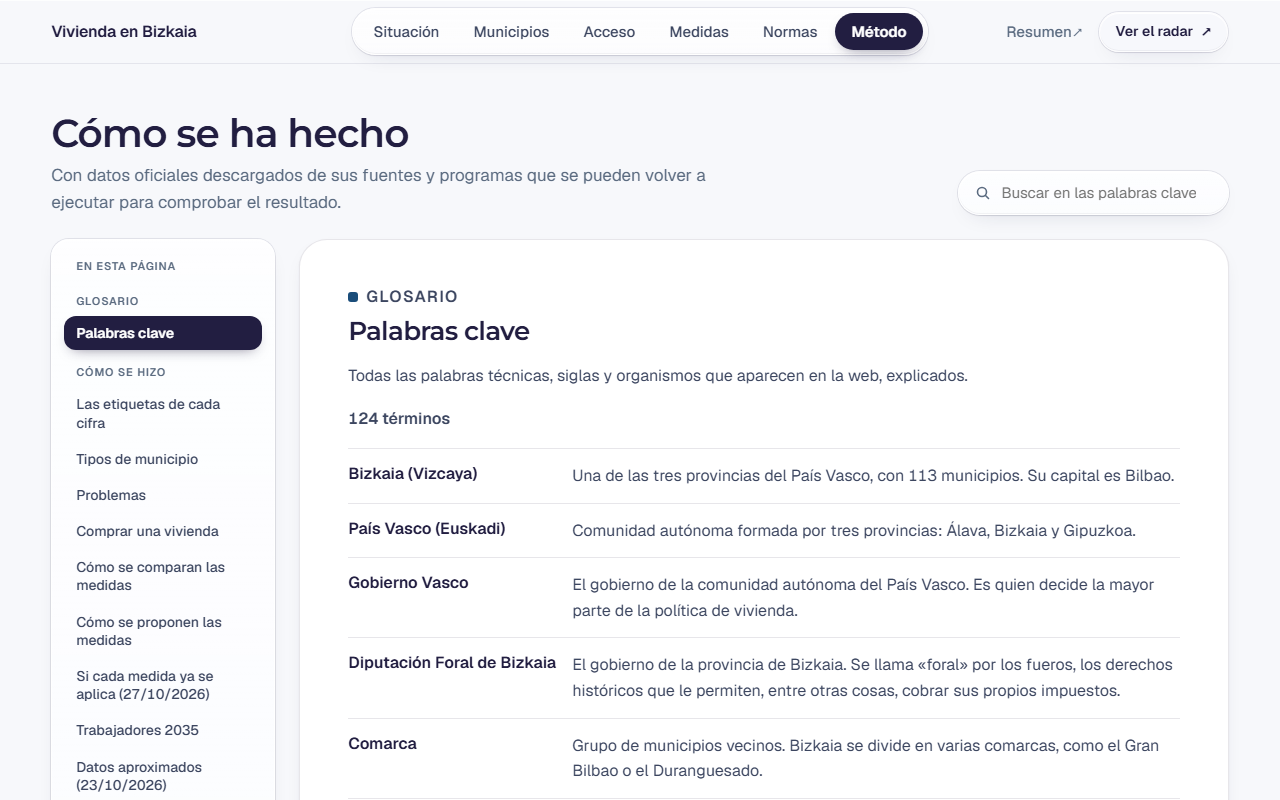
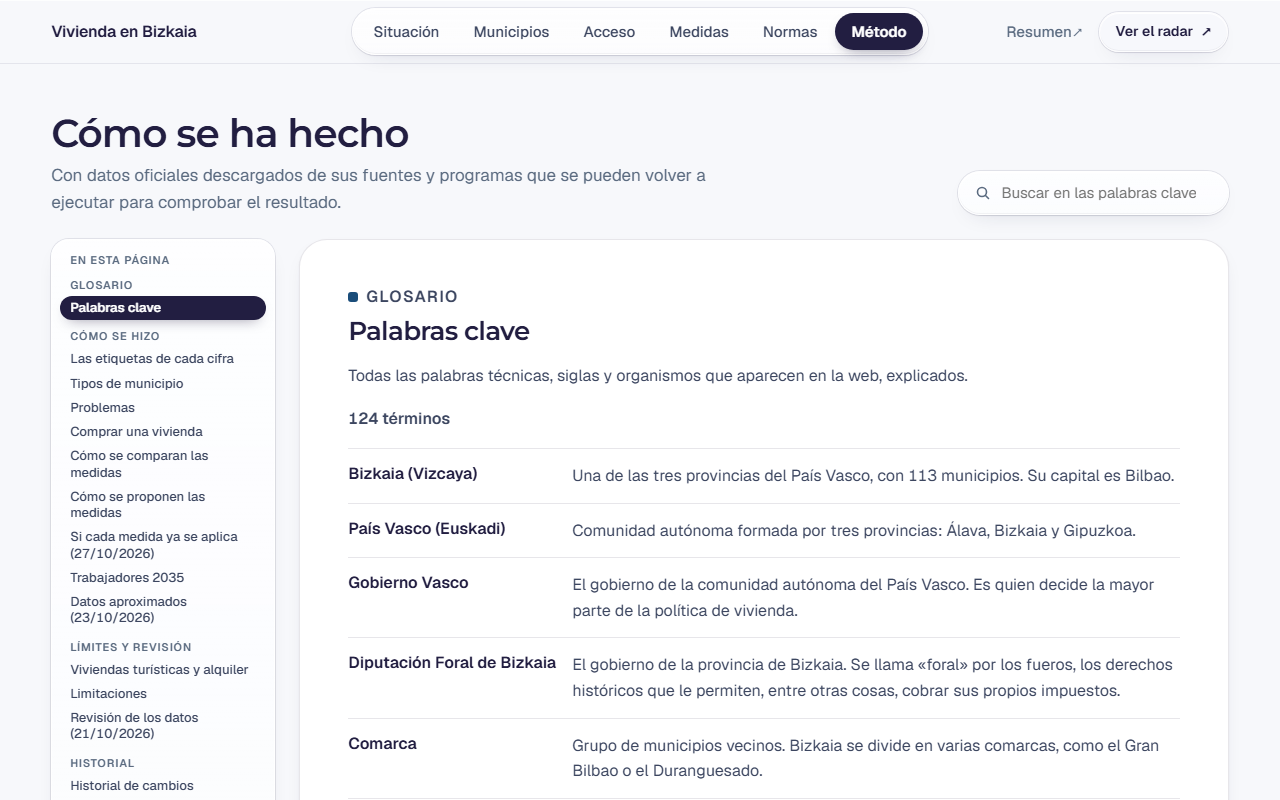
Ajustes tras la revision local: barras de desplazamiento, pie y fuentes de Situacion
- Barras de desplazamiento del sistema (finas, redondeadas, sin flechas) en todos los contenedores con scroll propio.
- Se elimina el texto del pie ("Prototipo integrado, no publicado...") y el pie.
- "Fuentes: ..." de Situacion pasa del panel al pie de la pagina, encima de la fecha de los datos (mismo elemento del original).
- Indice lateral de Metodo compactado para que quepa sin barra propia.
- Pruebas 1440x900: navegacion 41, vistas 48, situacion 101, equivalencia 30, flujos 74, composicion 33, contraste 31+93, desbordes 12, tipografia 13.

Changed region(s): [[0.0312, 0.3125, 0.2188, 1.0]]

diff --git a/sprint-03-1/app/css/marco.css b/sprint-03-1/app/css/marco.css
@@ -2,6 +2,20 @@
 *, *::before, *::after { box-sizing: border-box; }
 [hidden] { display: none !important; }
 html { scroll-padding-top: calc(var(--banda) + var(--s4)); scrollbar-color: var(--line-2) transparent; }
+
+/* ---------- Barras de desplazamiento del sistema ----------
+   Finas, redondeadas y sin flechas, en todos los contenedores con desplazamiento propio (ranking, listas, matrices, índices, fichas).
+   Chrome, Edge y Safari: se dibujan con ::-webkit-scrollbar, y para eso hay que anular scrollbar-width y scrollbar-color (si no, Windows
+   pinta su barra clásica con flechas, pegada al borde y encima de las cifras). Firefox mantiene la barra fina estándar de más arriba. */
+@supports selector(::-webkit-scrollbar) {
+  * { scrollbar-width: auto !important; scrollbar-color: auto !important; }
+  ::-webkit-scrollbar { width: 14px; height: 14px; }
+  ::-webkit-scrollbar-track, ::-webkit-scrollbar-corner { background: transparent; }
+  ::-webkit-scrollbar-button { display: none; width: 0; height: 0; }
+  ::-webkit-scrollbar-thumb { min-height: 36px; min-width: 36px; border: 4px solid transparent; border-radius: 999px; background-color: rgba(34, 30, 65, .28); background-clip: content-box; }
+  ::-webkit-scrollbar-thumb:hover { background-color: rgba(34, 30, 65, .5); }
+  ::-webkit-scrollbar-thumb:active { background-color: var(--ink); }
+}
 body { margin: 0; background: var(--bg); color: var(--ink); font: 400 1rem/1.55 var(--f-ui); -webkit-font-smoothing: antialiased; text-rendering: optimizeLegibility; }
 ::selection { background: var(--ice); color: var(--ink); }
 h1, h2, h3, p, ol, ul { margin: 0; padding: 0; }

diff --git a/sprint-03-1/app/js/situacion/index.js b/sprint-03-1/app/js/situacion/index.js
@@ -128,7 +128,6 @@ export async function montar(raiz, { store }) {
         el("h2", { class: "ficha-problema", text: p.titulo }),
         el("p", { class: "ficha-cifra", text: p.cifra }),
         el("p", { class: "ficha-unidad", text: p.unidad }),
-        sourceLine(p.fuentes, store.fuentes),
         prop(el("p", { class: "ficha-pista", text: "Toca un municipio en el mapa o elígelo en la lista." })),
       ];
       f.dataset.modo = "bizkaia";
@@ -168,6 +167,8 @@ export async function montar(raiz, { store }) {
       f.dataset.modo = "municipio";
     }
     f.replaceChildren(...nodes.filter(Boolean));
+    // «Fuentes: …» del problema: el mismo elemento de siempre (sourceLine del original), ahora al pie de la página y siempre visible
+    $("#fuentes-pie").replaceChildren(...[sourceLine(store.resumen.problemas.find((r) => r.id === x.problema).fuentes, store.fuentes)].filter(Boolean));
     // cerrar devuelve el foco al municipio en el mapa, para seguir con las flechas
     f.querySelector(".ficha-cerrar")?.addEventListener("click", () => { const c = S.code; set({ code: null }, { anuncio: true }); mapa.focusCode(c); });
     f.querySelectorAll(".perfil-b").forEach((b) => b.addEventListener("click", () => set({ i: Number(b.dataset.i) }, { anuncio: true })));

diff --git a/sprint-03-1/_qa/qa-vistas.js b/sprint-03-1/_qa/qa-vistas.js
@@ -43,7 +43,7 @@ export async function run() {
   const feats = (await store.sections()).features.filter((f) => f.properties.muni === "48020").length;
   ok("Municipios · el mapa de barrios de Bilbao dibuja todas sus secciones censales", $$(".barrios-mapa svg path", lec).length === feats && feats > 100, `${feats}`);
   $$(".lec-indice .lec-ir", lec).find((b) => b.textContent === "Plan").click(); await sleep(1200);
-  ok("Municipios · «Plan» del índice lleva al bloque y queda marcado como actual", $(".lec-indice .lec-ir[aria-current=true]")?.textContent === "Plan" && Math.abs($("#plan", lec).getBoundingClientRect().top) < 260, `${Math.round($("#plan", lec).getBoundingClientRect().top)} px`);
+  ok("Municipios · «Plan» del índice lleva al bloque y queda marcado como actual", $(".lec-indice .lec-ir[aria-current=true]")?.textContent === "Plan" && $("#plan", lec).getBoundingClientRect().top > -50 && $("#plan", lec).getBoundingClientRect().top < innerHeight - 200, `${Math.round($("#plan", lec).getBoundingClientRect().top)} px`);
   window.scrollTo(0, 0);
   // comparar
   await ir("#municipios/48020-48013", ".v-municipios .cabeceras.n2");

diff --git a/sprint-03-1/_qa/qa-navegacion.js b/sprint-03-1/_qa/qa-navegacion.js
@@ -23,7 +23,7 @@ export async function run() {
   const montadas = () => ({ atlas: !!$("#atlas"), medidas: !!$("#medidas") });
 
   // --- el marco: un solo header, un solo menú, un solo main ---
-  ok("Un único marco: 1 cabecera, 1 menú, 1 <main>, 1 pie", $$("header.banda").length === 1 && $$("dialog#menu").length === 1 && $$("main").length === 1 && $$("footer.pie").length === 1);
+  ok("Un único marco: 1 cabecera, 1 menú, 1 <main> y ningún pie con texto de prototipo", $$("header.banda").length === 1 && $$("dialog#menu").length === 1 && $$("main").length === 1 && $$("footer").length === 0);
   const enlaces = Object.fromEntries($$(".vistas a").map((a) => [a.textContent.replace("↗", "").trim(), a]));
   ok("Situación y Medidas apuntan a la app nueva (hash local), no a Vercel", enlaces["Situación"].getAttribute("href") === "#situacion" && enlaces["Medidas"].getAttribute("href") === "#medidas" && !/vercel\.app/.test(enlaces["Situación"].href + enlaces["Medidas"].href));
   ok("La marca de la cabecera vuelve a Situación local", $(".marca").getAttribute("href") === "#situacion");

diff --git a/sprint-03-1/app/css/metodo.css b/sprint-03-1/app/css/metodo.css
@@ -50,3 +50,10 @@
   .v-metodo dl.glossary dt { padding-bottom: 2px; border-bottom: 0; }
   .v-metodo .method-item { grid-template-columns: minmax(0, 1fr); }
 }
+
+/* índice lateral compacto: con 15 bloques y 5 grupos tiene que caber entero en una ventana de escritorio sin barra propia */
+.v-metodo .lec-indice.lateral { gap: 0; padding: var(--s2); }
+.v-metodo .lec-indice .lec-ir { padding: 4px 10px; font: 500 .8125rem/1.25 var(--f-ui); }
+.v-metodo .lec-indice .lec-ir[aria-current="true"] { font-weight: 600; }
+.v-metodo .lec-indice .lec-grupo { padding: var(--s2) 10px 2px; }
+.v-metodo .lec-indice .lec-indice-t { padding: 4px 10px 0; }

diff --git a/sprint-03-1/app/css/situacion.css b/sprint-03-1/app/css/situacion.css
@@ -144,6 +144,9 @@ body { background: var(--ambiente), var(--bg); background-attachment: fixed; }
 .sin-b[aria-pressed="true"] { background: var(--ink); border-color: var(--ink); color: #fff; }
 .lista-pie .nota { margin: 0; }
 
+/* «Fuentes» del problema abierto, al pie de la página */
+.fuentes-pie { padding: var(--s5) 18% 0 0; }
+.fuentes-pie .source-line { margin: 0; font: 400 .8125rem/1.55 var(--f-ui); }
 .fecha { padding-block: var(--s5) var(--s7); font-size: .8125rem; color: var(--muted); }
 
 /* ---------- Pie y etiqueta de prototipo ---------- */

diff --git a/sprint-03-1/app/index.html b/sprint-03-1/app/index.html
@@ -71,10 +71,6 @@
   <!-- La vista activa se monta aquí; solo hay una montada a la vez -->
   <main id="vista" tabindex="-1"></main>
 
-  <footer class="pie">
-    <p>Prototipo integrado, no publicado. Los textos, datos y cálculos son los de la web publicada; aquí solo cambia cómo se presentan.</p>
-  </footer>
-
   <p class="proto-tag">Prototipo integrado · Sprint 03.1</p>
   <div class="solo-lectores" role="status" aria-live="polite" data-anuncio></div>
 </body>

diff --git a/sprint-03-1/app/js/situacion/plantilla.html b/sprint-03-1/app/js/situacion/plantilla.html
@@ -52,5 +52,7 @@
       </aside>
     </div>
 
+    <div class="fuentes-pie" id="fuentes-pie"></div>
+
     <p class="fecha" id="fecha"></p>
   </div>

diff --git a/sprint-03-1/_qa/integridad.py b/sprint-03-1/_qa/integridad.py
@@ -94,7 +94,7 @@ ok("css/medidas.css: las únicas diferencias con el Sprint 03 son líneas de fam
 # Design System: respecto al commit publicado (BASE) el CSS de Situación y del marco solo puede cambiar PRESENTACIÓN (material, color, borde,
 # sombra, desenfoque, radios, relleno, transiciones, fuente), nunca maquetación (display, grid, flex, position, tamaños, overflow...).
 PRESENTACION = {"background", "background-image", "background-color", "background-attachment", "border", "border-color", "border-radius", "border-bottom",
-                "border-top", "box-shadow", "backdrop-filter", "-webkit-backdrop-filter", "color", "font", "transition", "padding", "margin", "opacity"}
+                "border-top", "scrollbar-width", "scrollbar-color", "min-width", "min-height", "box-shadow", "backdrop-filter", "-webkit-backdrop-filter", "color", "font", "transition", "padding", "margin", "opacity"}
 
 
 def reglas(texto):
@@ -122,7 +122,7 @@ for nombre in ("situacion.css", "marco.css", "medidas-diseno.css"):
         for p, v in dec.items():
             if prev.get(p) != v:
                 cambios.append((sel, p))
-    de_maquetacion = [(s, p) for s, p in cambios if p not in PRESENTACION and p != "gap" and not p.startswith("--") and not s.startswith('.shell[data-detalle="abierto"] .m-side')]  # excepción documentada: ficha de Medidas dentro del panel a < 1400 px
+    de_maquetacion = [(s, p) for s, p in cambios if p not in PRESENTACION and p != "gap" and not p.startswith("--") and not s.startswith('.shell[data-detalle="abierto"] .m-side') and not s.startswith("::-webkit-scrollbar")]  # excepciones documentadas: ficha de Medidas dentro del panel a < 1400 px; aspecto de las barras de desplazamiento (::-webkit-scrollbar)
     quitadas = [(s, p) for sel, dec in antes for s, p in [(sel, k) for k in dec] if not any(s == s2 and p in d2 for s2, d2 in ahora)]
     quitadas = [(s, p) for s, p in quitadas if p not in PRESENTACION and s != ":root" and not s.startswith(".pendiente") and not p.startswith("--")]  # :root salió a tokens.css (se comprueba abajo); .pendiente era la página provisional, ya sustituida por las vistas reales
     ok(f"css/{nombre}: respecto al commit publicado solo cambia presentación, no maquetación ({len(cambios)} declaraciones cambiadas)", bool(antes) and not de_maquetacion and not quitadas, (de_maquetacion + quitadas)[:4])

diff --git a/docs/diseno/FRENTES_C_D_E.md b/docs/diseno/FRENTES_C_D_E.md
@@ -41,6 +41,12 @@ Las **seis vistas** son ahora vistas reales de la misma aplicación: ya no hay p
 
 Un defecto que ya existía se corrigió al probar a 1280: la ficha de Medidas se salía del panel por la izquierda por una regla antigua de `medidas.css` (panel superpuesto a menos de 1400 px).
 
+### Ajustes tras la primera revisión local
+1. **Barras de desplazamiento.** En Windows, Chrome y Edge pintaban la barra clásica (con flechas, pegada al borde y encima de las cifras del ranking). Ahora hay una barra del sistema, fina, redondeada y sin flechas, en todos los contenedores con scroll propio (ranking, listas, matrices, fichas, índices). Firefox mantiene la barra fina estándar.
+2. **Pie de página.** Se elimina el texto «Prototipo integrado, no publicado…» y, con él, el pie.
+3. **Fuentes de Situación.** El texto «Fuentes: Gobierno Vasco, estadística del alquiler… · Eustat… · Etxebide…» sale del panel y pasa al pie de la página, justo encima de «Datos descargados el…». Es el mismo elemento del original (mismos enlaces); ahora se ve siempre, con o sin municipio elegido, y cambia con el problema.
+4. **Índice de Método** compactado para que quepa entero en una ventana de 900 px de alto sin barra propia.
+
 ## 3. Decisiones que he tomado y quiero que revises
 1. **Cifras que ruedan → texto fijo.** La web publicada anima las cifras (dígitos que giran, con su CSS). Aquí se devuelven a texto plano en Geist tabular, para que ningún efecto visual altere una cifra. Se pierde esa animación de entrada.
 2. **Efectos de movimiento del original** (títulos que se enfocan, frase que se llena de tinta, línea de tiempo que se dibuja al bajar, capítulo en la banda) **no se han portado**: no aportan al uso y chocan con «sin efectos que resten control».
